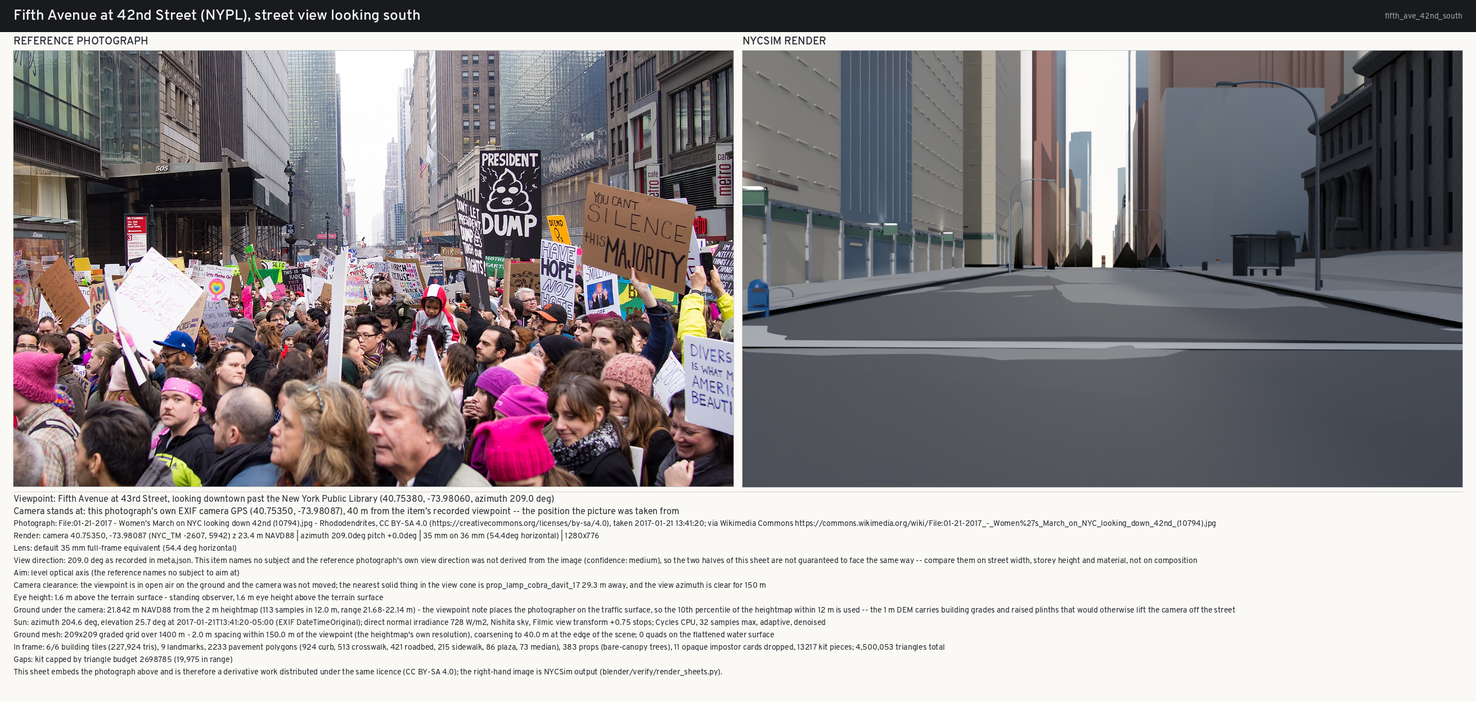
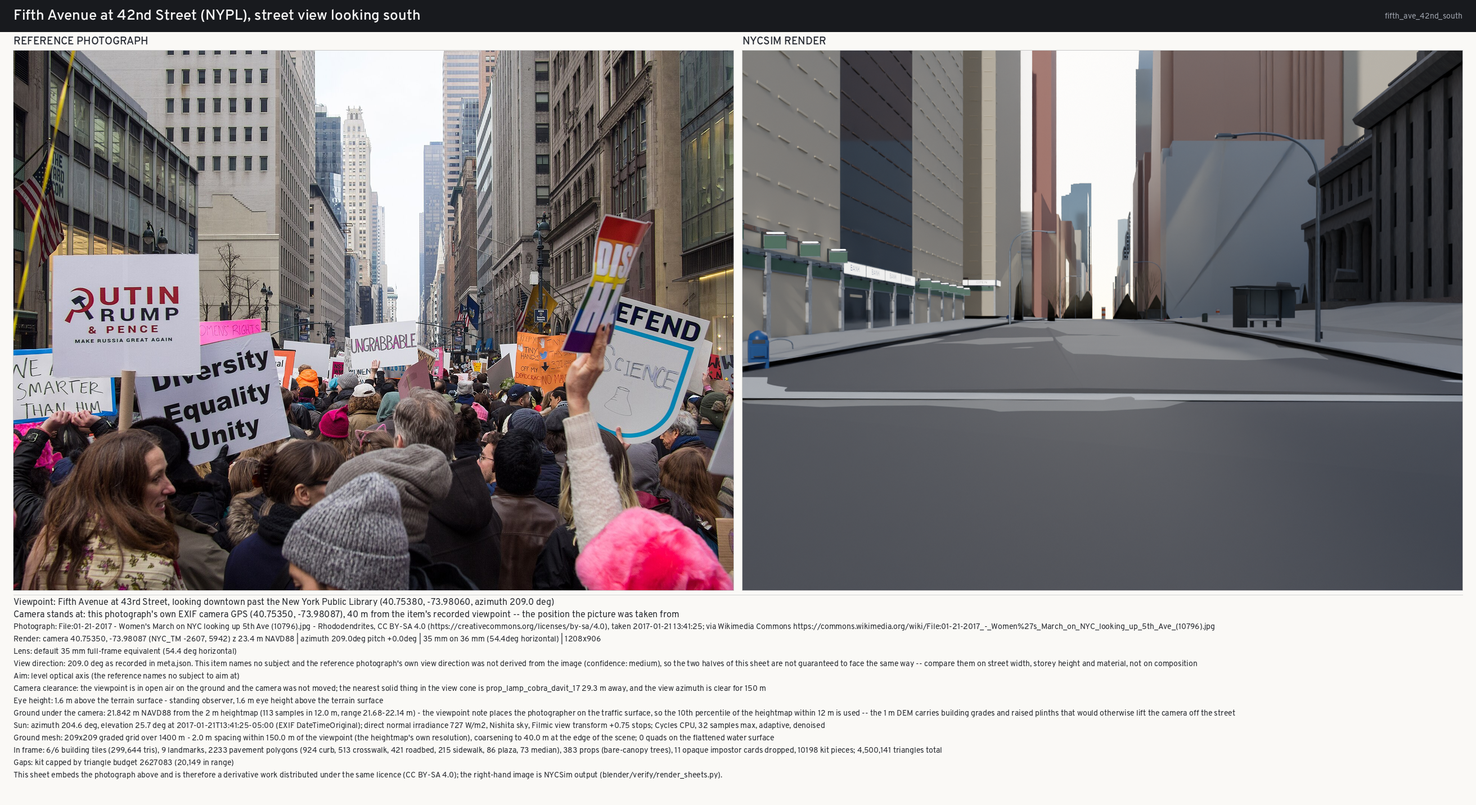
Both Fifth Avenue viewpoints now compare views of the same street
fifth_ave_42nd_north and fifth_ave_42nd_south are two of the nine viewpoints brief §12
condition 3 names, and neither could be judged: all three photographs collected for the north
view were of the New York Public Library's facade looking west, and the south view carried
"Women's March on NYC looking down 42nd", a view along the cross street. Both assessments said
so in their own words.

Re-fetched and re-rendered. The north item now carries three street-level views along the
avenue at 43rd Street; the south item carries the same photographer's frame from the same
corner at the same minute, titled "looking up 5th Ave". Both sheets now run along Fifth Avenue
in the direction their item names, and can be compared on street width, storey height, kerb
line and massing, which is what they are for.

What is still wrong is written into each: the north render is far too dark (mean 0.224) because
the file records only a year, so the Sun falls back to 21 June 09:30 and a north-facing canyon
between 100 m towers is in shadow; the south render is an empty grey slab against a photograph
of ten thousand people; and both headings are still the avenue's own axis rather than anything
derived from the image, because Commons carries no view direction (deviation I7).

Claude-Session: https://claude.ai/code/session_012rCzdfEp56Z5bDvSJLVsiQ

diff --git a/docs/verification/comparison/fifth_ave_42nd_south/assessment.md b/docs/verification/comparison/fifth_ave_42nd_south/assessment.md
@@ -2,43 +2,63 @@
 
 `fifth_ave_42nd_south` · sheet: [`sheet.png`](sheet.png) · render record: [`render.json`](render.json)
 
-**Reference** — File:01-21-2017 - Women's March on NYC looking down 42nd (10794).jpg by Rhododendrites, CC BY-SA 4.0 (https://creativecommons.org/licenses/by-sa/4.0), taken 2017-01-21 13:41:20, 1920x1163. [Commons page](https://commons.wikimedia.org/wiki/File:01-21-2017_-_Women%27s_March_on_NYC_looking_down_42nd_(10794).jpg)
+**Reference** — File:01-21-2017 - Women's March on NYC looking up 5th Ave (10796).jpg by Rhododendrites, CC BY-SA 4.0 (https://creativecommons.org/licenses/by-sa/4.0), taken 2017-01-21 13:41:25, 1920x1440. [Commons page](https://commons.wikimedia.org/wiki/File:01-21-2017_-_Women%27s_March_on_NYC_looking_up_5th_Ave_(10796).jpg)
 
-**Camera** — camera 40.75350, -73.98087 (NYC_TM -2607, 5942) z 23.4 m NAVD88 | azimuth 209.0deg pitch +0.0deg | 35 mm on 36 mm (54.4deg horizontal) | 1280x776. View direction: 209.0 deg as recorded in meta.json.  This item names no subject and the reference photograph's own view direction was not derived from the image (confidence: medium), so the two halves of this sheet are not guaranteed to face the same way -- compare them on street width, storey height and material, not on composition. Aim: level optical axis (the reference names no subject to aim at).
+**Camera** — camera 40.75350, -73.98087 (NYC_TM -2607, 5942) z 23.4 m NAVD88 | azimuth 209.0deg pitch +0.0deg | 35 mm on 36 mm (54.4deg horizontal) | 1208x906. View direction: 209.0 deg as recorded in meta.json.  This item names no subject and the reference photograph's own view direction was not derived from the image (confidence: medium), so the two halves of this sheet are not guaranteed to face the same way -- compare them on street width, storey height and material, not on composition. Aim: level optical axis (the reference names no subject to aim at).
 
-**Sun** — azimuth 204.6°, elevation 25.7° at 2017-01-21T13:41:20-05:00 (EXIF DateTimeOriginal).
+**Sun** — azimuth 204.6°, elevation 25.7° at 2017-01-21T13:41:25-05:00 (EXIF DateTimeOriginal).
 
-**In frame** — 6/6 building tiles (232,584 tris), 9 landmark models, 2,233 pavement polygons, 383 props, 12,775 facade-kit pieces; 4,500,231 triangles; ground mesh 209² at 2.0 m near / 40.0 m far.
+**In frame** — 6/6 building tiles (299,644 tris), 9 landmark models, 2,233 pavement polygons, 383 props, 10,198 facade-kit pieces; 4,500,141 triangles; ground mesh 209² at 2.0 m near / 40.0 m far; kit capped by the triangle budget (20,149 in range). Frame mean 0.390, sd 0.177.
 
-**Verdict — the two halves face different streets, and the one thing the pairing does demonstrate is total: the photograph is ten thousand people filling 42nd Street and the render is an empty grey avenue with nothing alive in it at all**
+**Verdict — re-rendered 2026-09-07 against a photograph that looks the same way the render does. Both halves now run south down Fifth Avenue between the same canyon walls, with the same bright slot of sky at the far end. What the pairing demonstrates instead is total and unchanged: the photograph is ten thousand people filling the avenue and the render is an empty grey slab with nothing alive in it at all**
+
+## What changed, and why
+
+The photograph this sheet used to carry is titled "Women's March on NYC **looking down 42nd**": a view
+along the cross street, taken from the same corner. Its own assessment said "the two halves face
+different streets", and this is one of the nine viewpoints brief §12 condition 3 names.
+
+It passed because the item's keyword group lists the cross-street numbers, and because the category
+"5th Avenue (Manhattan)" is on a photograph taken at the corner whatever it faces. Two rules now
+separate them (`docs/verification/comparison/REPORT.md` §2.11): the subject test is matched against a
+photograph's own title and description rather than its categories, and `not_of` rejects a title that
+announces a different subject — for this item, the library beside the avenue **and a view along the
+cross street** ("looking down 42nd", "along 42nd"). The photograph the chooser now returns is by the
+same photographer, from the same corner, at the same minute, and is titled "**looking up 5th Ave**".
 
 ## What matches
 
+* **Both halves look along the same street in the same direction.** That is the change: the photograph
+  runs south down Fifth Avenue with the sky slot closing at the vanishing point, and so does the
+  render, on the recorded 209.0 deg downtown heading.
 * The camera stands on the photograph's own EXIF GPS, 40 m from the item's nominal viewpoint, at 23.4 m NAVD88 on a 21.8 m street surface.
 * As a Manhattan street canyon the render is credible: the roadbed and both sidewalks are the right widths, the kerb reveal is visible along their whole length, and the wall of buildings steps back and down toward a bright sky slot at the far end exactly as the photograph's own canyon does.
 * Aerial perspective is right. The far towers wash out into haze at the same rate as in the reference, which is a fair test of the Nishita sky plus Filmic transform at a 25.7 deg winter Sun.
 * Street furniture is present and correctly scaled: a bus shelter on the east sidewalk, cobra-head lamps on davits over the roadway, a mailbox at the kerb, sidewalk sheds with green netting along the west wall.
-* The Sun is taken from the photograph's EXIF instant (2017-01-21 13:41:20 EST, elevation 25.7 deg) and the flat overcast-free light matches the reference's grey January sky closely enough that exposure is comparable.
+* The Sun is taken from the photograph's EXIF instant (2017-01-21 13:41:25 EST, elevation 25.7 deg) and the flat overcast-free light matches the reference's grey January sky closely enough that exposure is comparable.
 
 ## What does not match
 
-* The frames face different streets. The item looks south-south-west down Fifth Avenue past the library; the photograph — 'Women's March on NYC looking down 42nd' — looks west along 42nd Street. As with the northward view, every photograph collected for this item carries estimated_viewpoint.method = camera_gps_with_item_azimuth, so its direction was assumed rather than measured and no choice among them fixes the mismatch.
+* **The heading is still assumed rather than measured.** The item names no subject, so the azimuth is
+  the avenue's own downtown heading and nothing in the file proves the photograph faces it; the title
+  does, and a title is not metadata the pipeline can rely on in general (deviation I7). It agrees here.
 * There are no people. The reference is a crowd that fills the frame from the lens to the vanishing point, several thousand visible; the render has not one figure. No other gap in this comparison set is as large in pixel terms.
 * There are no vehicles, so the roadway reads as a fresh grey slab.
 * No road markings, no lane lines, no stop bar, no crosswalk stripes.
 * The building walls are flat pastel with unglazed window dashes. The reference's west wall is a continuous run of glazed shopfronts, awnings, scaffolding, signs ('cafe', 'metro') and fire escapes; the render's is a plain surface with a green scaffold band.
 * No shopfront signage or lettering anywhere, and no glass in any opening.
 * The bare street trees still read as opaque cones (11 impostor cards dropped in this frame; the branch geometry beneath them is what remains too dense).
-* The kit was capped by the triangle budget at 12,775 of 19,975 pieces in range, so about a third of the facade detail within 140 m is not drawn.
+* The Sun is right but the render is flatter than the photograph: a 25.7 deg January sun at 204.6 deg is almost straight down the avenue behind the camera, so both frames are frontally lit, and the render has none of the reference's overcast diffusion.
+* The kit was capped by the triangle budget at 10,198 of 20,149 pieces in range, so half the facade detail within 140 m is not drawn.
 
 ## Cause of each gap
 
 | gap | cause | class |
 |---|---|---|
-| the two halves face different streets | the item names no subject and the reference stage assigned the item's azimuth to each photograph rather than measuring it; the chosen photograph looks west along 42nd Street | reference |
+| ~~the two halves face different streets~~ | **fixed**: the subject test now reads the photograph's own title and description rather than its categories, and `not_of` rejects a title announcing a view along the cross street | reference |
 | no people | no crowd placement feeds the verification scene | data |
 | no vehicles | no traffic placement feeds the verification scene | data |
 | no road markings | pavement polygons carry a kind but no stripe geometry or texture | material |
 | flat facades, no glazing, no signs | shells carry a per-material base colour; the facade kit supplies openings without glass, mullions or sign faces | material |
 | trees read as solid cones | the leaf-off branch model is dense and untextured | material |
-| a third of the facade kit not drawn | the 4.5 M triangle budget is spent before the kit is finished; the sheet records the cap | geometry |
+| half the facade kit not drawn | the 4.5 M triangle budget is spent before the kit is finished; the sheet records the cap | geometry |
